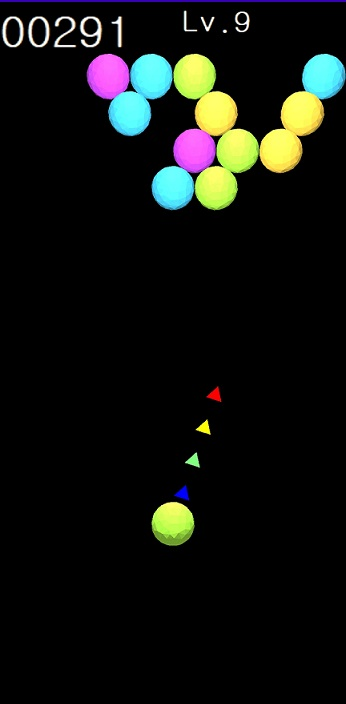
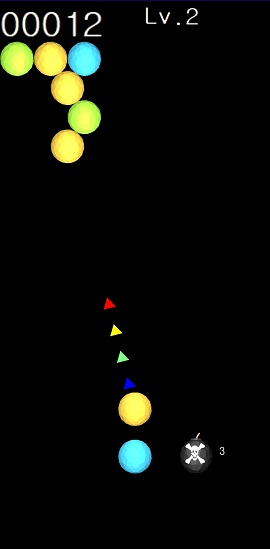
Modify README.md

diff --git a/README.md b/README.md
@@ -1,14 +1,26 @@
 # Bubble
 A simple Android game mimicking puzzle bobble.
 
+![screenshot](images/screenshot.jpg)
+
 The goal of this game is to clear all the bubbles in the screen. If identically-colored bubbles form a group of three or more bubbles, they explode and disappear. When the group of bubbles explodes, bubbles hanging from the group also fall down and are removed.
 
-Development environment is as follows
+
+The bubble to be fired can be switched with a bomb if the bomb icon is touched. The bombs explode and clear surrounding bubbles when they collide with walls or other bubbles.
+
+The number of remaining bombs are displayed on the right of bomb icon and a new bomb is given at clearing of every 10 bubbles.
+
+
+## Development environment
 - Android Studio Chipmunk | 2021.2.1 Patch 1
 - Kotlin
 - OpenGL ES 3.0
-- Blender 2.93
 - Python
+- Samsung Galaxy S20, Android version: 12
+- Blender 2.93
+    - Bubble and bomb are designed by Blender and saved in ./objects folder. They are exported to wavefront obj files. Then converted into Kotlin class by [objects/obj2floatarray.py](objects/obj2floatarray.py)
 
 
-![screenshot](images/screenshot.jpg)
+
+
+
